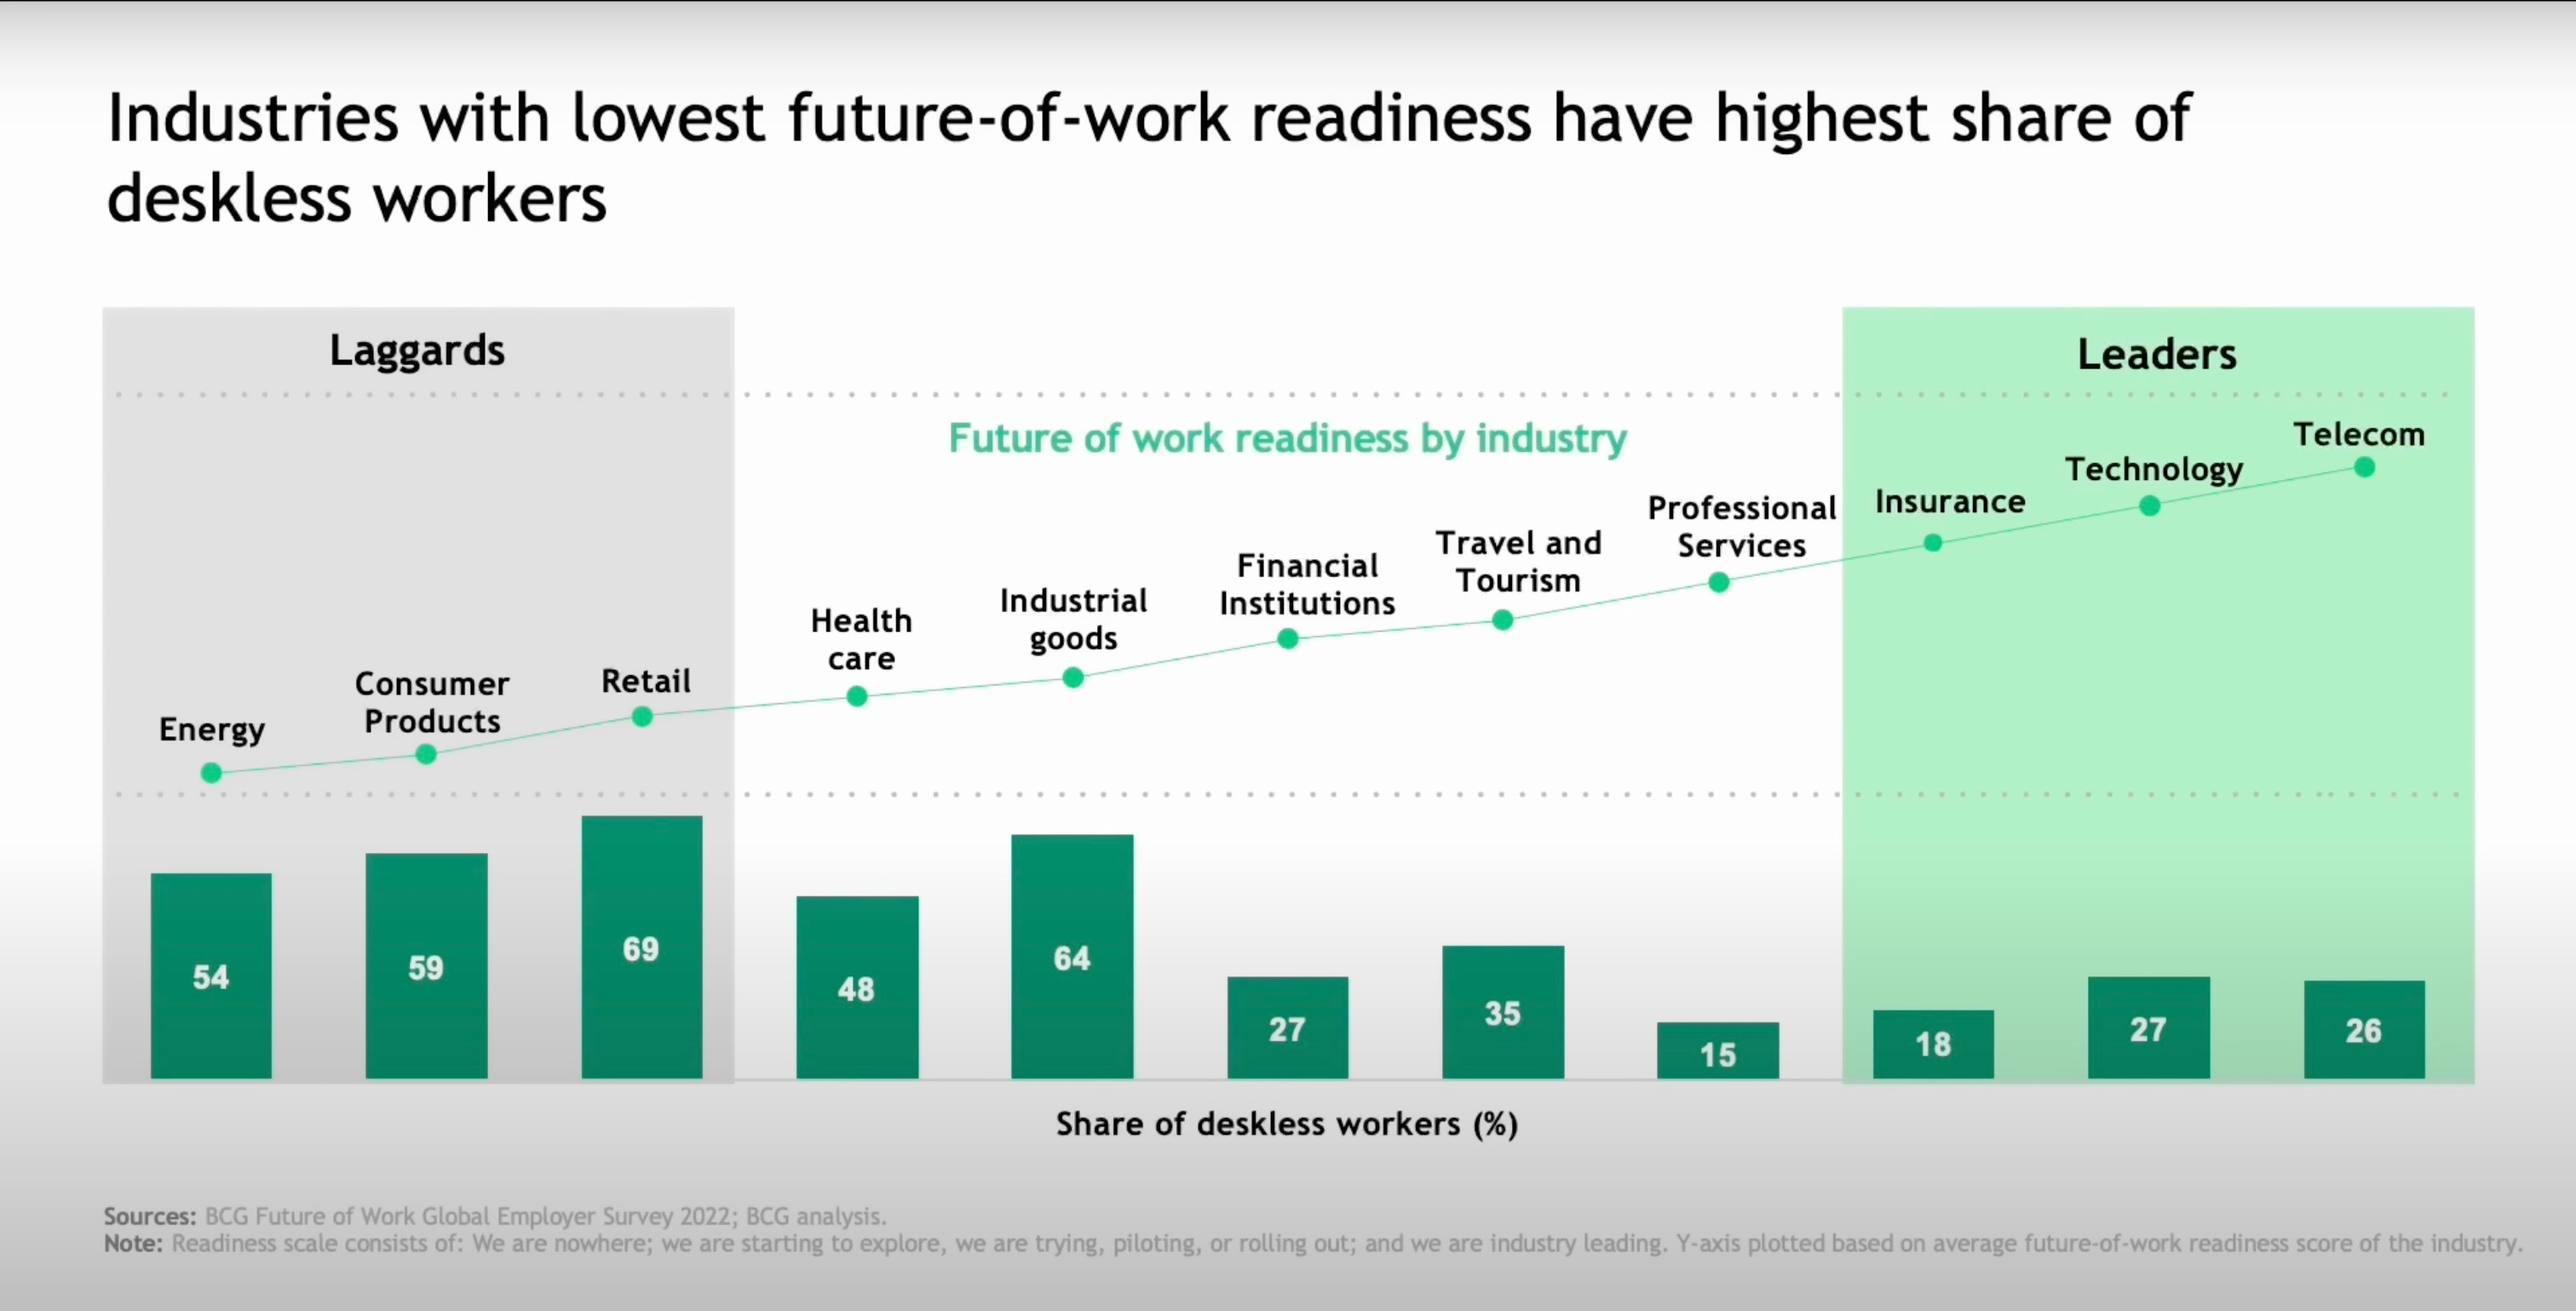
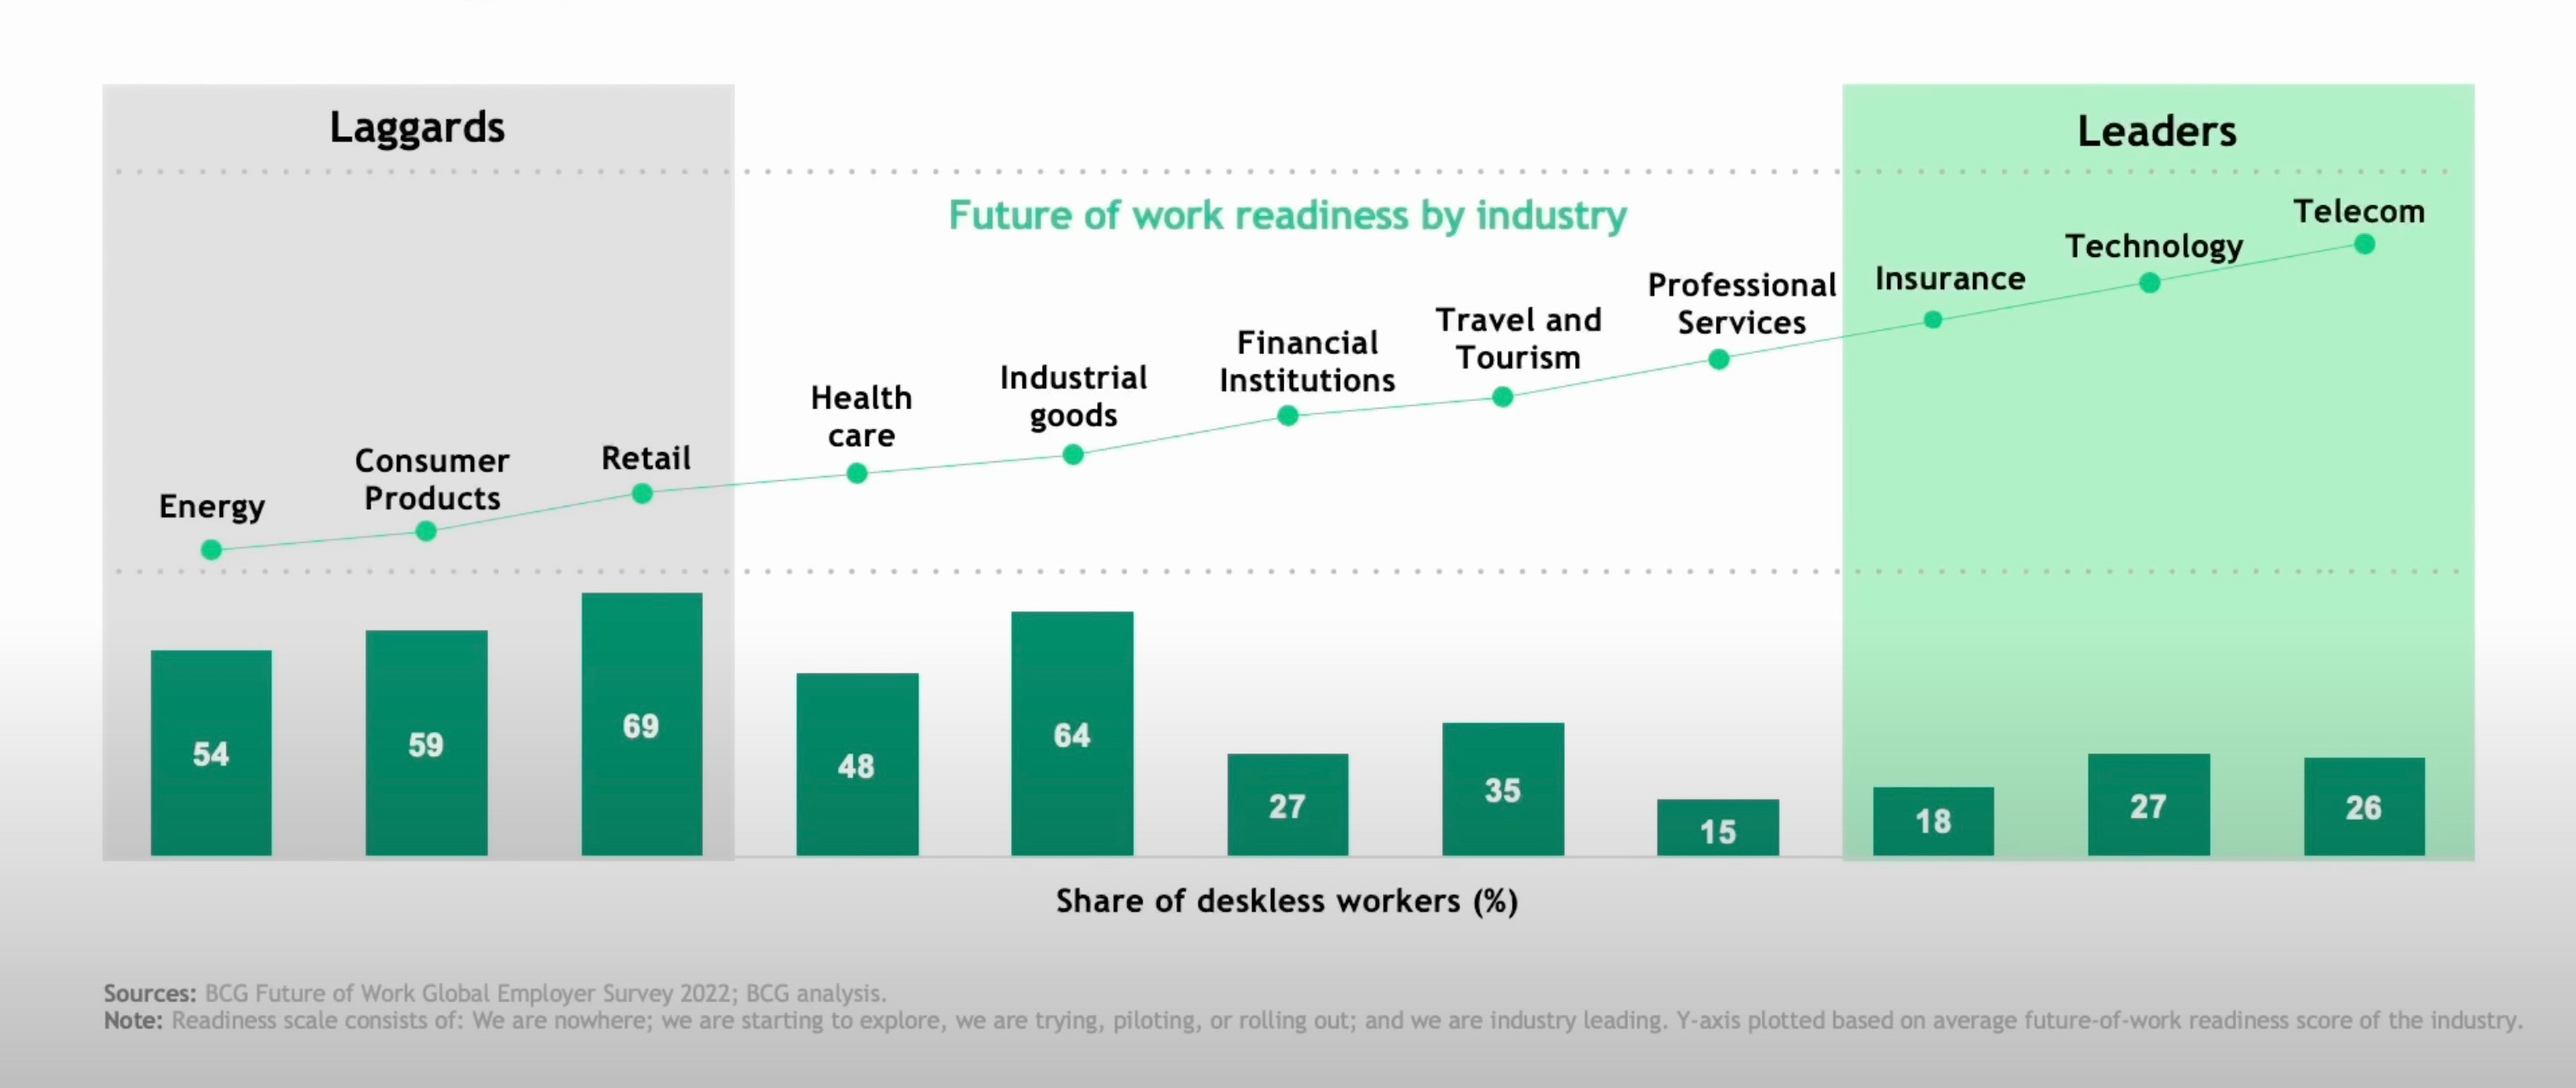
[C3] Updated scatter plots, again

diff --git a/templates/analysis.html b/templates/analysis.html
@@ -3,41 +3,110 @@
 
 <head>
     <script src="https://cdn.plot.ly/plotly-latest.min.js"></script>
+    
+    <link rel="stylesheet" href="styles.css">
+    <link href="https://cdn.jsdelivr.net/npm/bootstrap@5.3.0/dist/css/bootstrap.min.css" rel="stylesheet" integrity="sha384-9ndCyUaIbzAi2FUVXJi0CjmCapSmO7SnpJef0486qhLnuZ2cdeRhO02iuK6FUUVM" crossorigin="anonymous">
+  
     <title>Scatter Plot</title>
 </head>
 
 <body>
 
     <div id="scatterPlot"></div>
+
+    <h3>Light Green: Graph 1, Green: Graph 2</h3>
+
+    <img src="{{graphImage}}" height = "450" width = "1080">
     <button onclick="location.href='/'">Home</button>
-    <img src="{{graphImage}}">
+
     
     <script>
+        var x = {{X}};
+        var y = {{Y}};
+        var G = {{G}};
+    
+        var colors = G.map(function(value) {
+          if (value === 1) {
+            return 'darkseagreen  ';
+          } else if (value === 2) {
+            return 'forestgreen';
+          } else {
+            return 'black'; // default color if G is neither 1 nor 2
+          }
+        });
+    
         var trace1 = {
-            x: {{X}},
-            y: {{Y}},
-            mode: 'markers',
-            type: 'scatter'
+          x: x,
+          y: y,
+          mode: 'markers',
+          type: 'scatter',
+          marker: {
+            size: 15,
+            color: colors  // Use the colors array for marker color
+          },
+          name: 'Graph 1'  // Legend label for red points
         };
-
-        var data = [trace1];
-
+    
+        var trace2 = {
+          x: [],  // Create an empty trace for blue points
+          y: [],
+          mode: 'markers',
+          type: 'scatter',
+          marker: {
+            size: 15,
+            color: 'forestgreen'
+          },
+          name: 'Graph 2'  // Legend label for blue points
+        };
+    
+        var data = [trace1, trace2];
+    
         var layout = {
-            title: 'User Performance For This Infographic',
-            xaxis: {
-                title: 'Time Elapsed',
-                showgrid: false,
-                zeroline: false
-            },
-            yaxis: {
-                title: 'Score',
-                showline: false
-            }
+          title: 'User performance for both infographics',
+          xaxis: {
+            title: 'Time elapsed, in seconds',
+            showgrid: true,
+            showline: false,
+            zeroline: false
+          },
+          yaxis: {
+            title: 'Score, by percentage correct',
+            showline: false
+          },
+          legend: {
+            x: 1,  // Position the legend at the top right corner
+            y: 1,
+            xanchor: 'right',
+            yanchor: 'top',
+            showlegend: true
+          }
         };
-
+    
+        // Add a separate legend for the point colors
+        var legend = {
+          x: 0.95,  // Position the separate legend in the top right corner
+          y: 0.95,
+          xanchor: 'right',
+          yanchor: 'top',
+          orientation: 'v',
+          bgcolor: 'rgba(255, 255, 255, 0.7)',
+          bordercolor: '#000',
+          borderwidth: 1,
+          traceorder: 'reversed',
+          itemsizing: 'constant',
+          itemclick: 'toggleothers',
+          itemdoubleclick: 'toggle',
+          itemwidth: 80,
+          itemheight: 20
+        };
+    
+        layout.legend = Object.assign(layout.legend, legend);
+    
         Plotly.newPlot('scatterPlot', data, layout);
     </script>
 
+    <script src="https://cdn.jsdelivr.net/npm/@popperjs/core@2.11.8/dist/umd/popper.min.js" integrity="sha384-I7E8VVD/ismYTF4hNIPjVp/Zjvgyol6VFvRkX/vR+Vc4jQkC+hVqc2pM8ODewa9r" crossorigin="anonymous"></script>
+    <script src="https://cdn.jsdelivr.net/npm/bootstrap@5.3.0/dist/js/bootstrap.min.js" integrity="sha384-fbbOQedDUMZZ5KreZpsbe1LCZPVmfTnH7ois6mU1QK+m14rQ1l2bGBq41eYeM/fS" crossorigin="anonymous"></script>
 </body>
 
 </html>

diff --git a/templates/navbar.html b/templates/navbar.html
@@ -1,5 +1,5 @@
 <nav class="navbar navbar-expand-lg navbar-light bg-light">
-  <a class="navbar-brand" href="#">A/B TESTING</a>
+  <a class="navbar-brand" href="#">/infographics</a>
   <button class="navbar-toggler" type="button" data-toggle="collapse" data-target="#navbarSupportedContent"
     aria-controls="navbarSupportedContent" aria-expanded="false" aria-label="Toggle navigation">
     <span class="navbar-toggler-icon"></span>
@@ -13,15 +13,9 @@
       <li class="nav-item">
         <a class="nav-link" href="/about">About</a>
       </li>
-      <li class="nav-item">
-        <a class="nav-link" href="/random">Random</a>
-      </li>
-      <li class="nav-item">
-        <a class="nav-link" href="/analysis">Analysis</a>
-      </li>
       <li class="nav-item dropdown">
         <a class="nav-link dropdown-toggle" href="#" id="navbarDropdown" role="button" data-bs-toggle="dropdown"
-          aria-expanded="false"> All Years </a>
+          aria-expanded="false"> Analysis </a>
         <div class="dropdown-menu" aria-labelledby="navbarDropdown">
           {% for graphId in graphIds%}
           <p><a href="/analysis?graphId={{graphId}}">Graph {{graphId}}</a></p>

diff --git a/templates/infographics.html b/templates/infographics.html
@@ -33,7 +33,8 @@
 </head>
 
 <body>
-    <img src="../static/assets/graphs/graph1.png" id="graph" class="img-fluid mb-4">
+    <br><br><br><br><br>
+    <img src="../static/assets/graphs/graph1.jpeg" id="graph" class="img-fluid mb-4" height = "450" width = "900">
     <p id="question" class="text-center">Question1</p>
     <div class="options" id="options">
         <p class="bg-light p-2 rounded" id="option1">Option 1</p>

diff --git a/server.py b/server.py
@@ -12,25 +12,49 @@ app = Flask(__name__)
 graphSet = [
     {
         "id": 1,
-        "graphImage": "../static/assets/graphs/graph1.png",
+        "graphImage": "../static/assets/graphs/graph1.jpeg",
         "questions": [
             {
                 "id": 1,
-                "question": "Question 1",
-                "options": ["Option 1", "Option 2", "Option 3", "Option 4"],
-                "correctAnswer": 0,
+                "question": "1. What is the main message of this graph?",
+                "options": ["A. Despite the volatility of shares of deskless workers, the ‘energy, consumer products, and retail’ industries have the lowest future of work readiness.", "B. Industries with lowest future-of-work readiness have highest share of deskless workers.", "C. Despite the volatility of shares of deskless workers, the ‘insurance, technology, and telecom’ industries have the highest future of work readiness.", ""],
+                "correctAnswer": 1,
             },
             {
                 "id": 2,
-                "question": "Question 2",
-                "options": ["Option 10", "Option 2", "Option 3", "Option 4"],
-                "correctAnswer": 1,
+                "question": "2. What are the variables?",
+                "options": ["A. Type of company, share of deskless workers.", "B. Laggards, leaders", "C. Share of deskless workers (%), future of work readiness", ""],
+                "correctAnswer": 2,
             },
             {
                 "id": 3,
-                "question": "Question 3",
-                "options": ["Option 10", "Option 2", "Option 3", "Option 4"],
+                "question": "3. Which companies does the creator most want to highlight?",
+                "options": ["A. Laggards.", "B. Leaders.", "C. The companies that are neither laggards nor leaders.", ""],
+                "correctAnswer": 0,
+            },
+        ],
+    },
+    {
+        "id": 2,
+        "graphImage": "../static/assets/graphs/graph2.jpeg",
+        "questions": [
+            {
+                "id": 1,
+                "question": "1. What is the main message of this graph?",
+                "options": ["A. Despite the volatility of shares of deskless workers, the ‘energy, consumer products, and retail’ industries have the lowest future of work readiness.", "B. Industries with lowest future-of-work readiness have highest share of deskless workers.", "C. Despite the volatility of shares of deskless workers, the ‘insurance, technology, and telecom’ industries have the highest future of work readiness.", ""],
                 "correctAnswer": 1,
+            },
+            {
+                "id": 2,
+                "question": "2. What are the variables?",
+                "options": ["A. Type of company, share of deskless workers.", "B. Laggards, leaders", "C. Share of deskless workers (%), future of work readiness", ""],
+                "correctAnswer": 2,
+            },
+            {
+                "id": 3,
+                "question": "3. Which companies does the creator most want to highlight?",
+                "options": ["A. Laggards.", "B. Leaders.", "C. The companies that are neither laggards nor leaders.", ""],
+                "correctAnswer": 0,
             },
         ],
     },
@@ -113,12 +137,12 @@ def submit():
 @app.route("/analysis")
 def analysis():
     graphId = int(request.args.get("graphId"))
-    X, Y = read_csv("./data.csv", graphId)
+    G, X, Y = read_csv("./data.csv", graphId)
 
     fileName = "/analysis.html"
     resp = make_response(
         render_template(
-            fileName, X=X, Y=Y, graphImage=getGraphSet(graphId)["graphImage"]
+            fileName, G=G, X=X, Y=Y, graphImage=getGraphSet(graphId)["graphImage"]
         )
     )
     return resp
@@ -134,15 +158,17 @@ def write_to_csv(dict):
 
 
 def read_csv(path, graphId):
+    g = []
     x = []
     y = []
     with open(path, "r") as file:
         reader = csv.reader(file)
         for row in reader:
             if row:
+                g.append(int(row[0]))
                 x.append(float(row[1]))
                 y.append(float(row[2]))
-    return (x, y)
+    return (g, x, y)
 
 
 if __name__ == "__main__":
